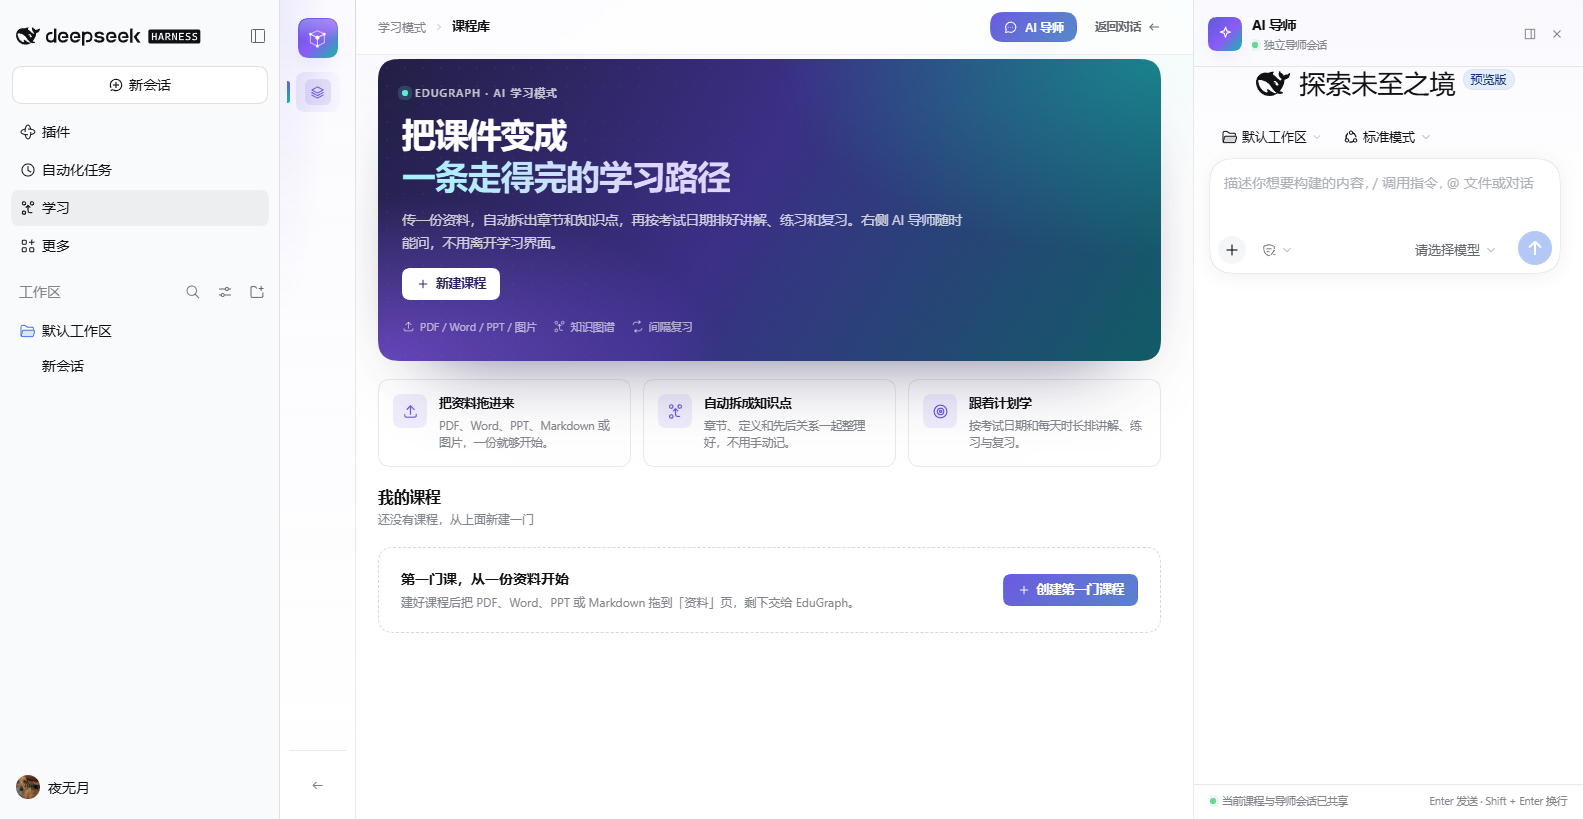
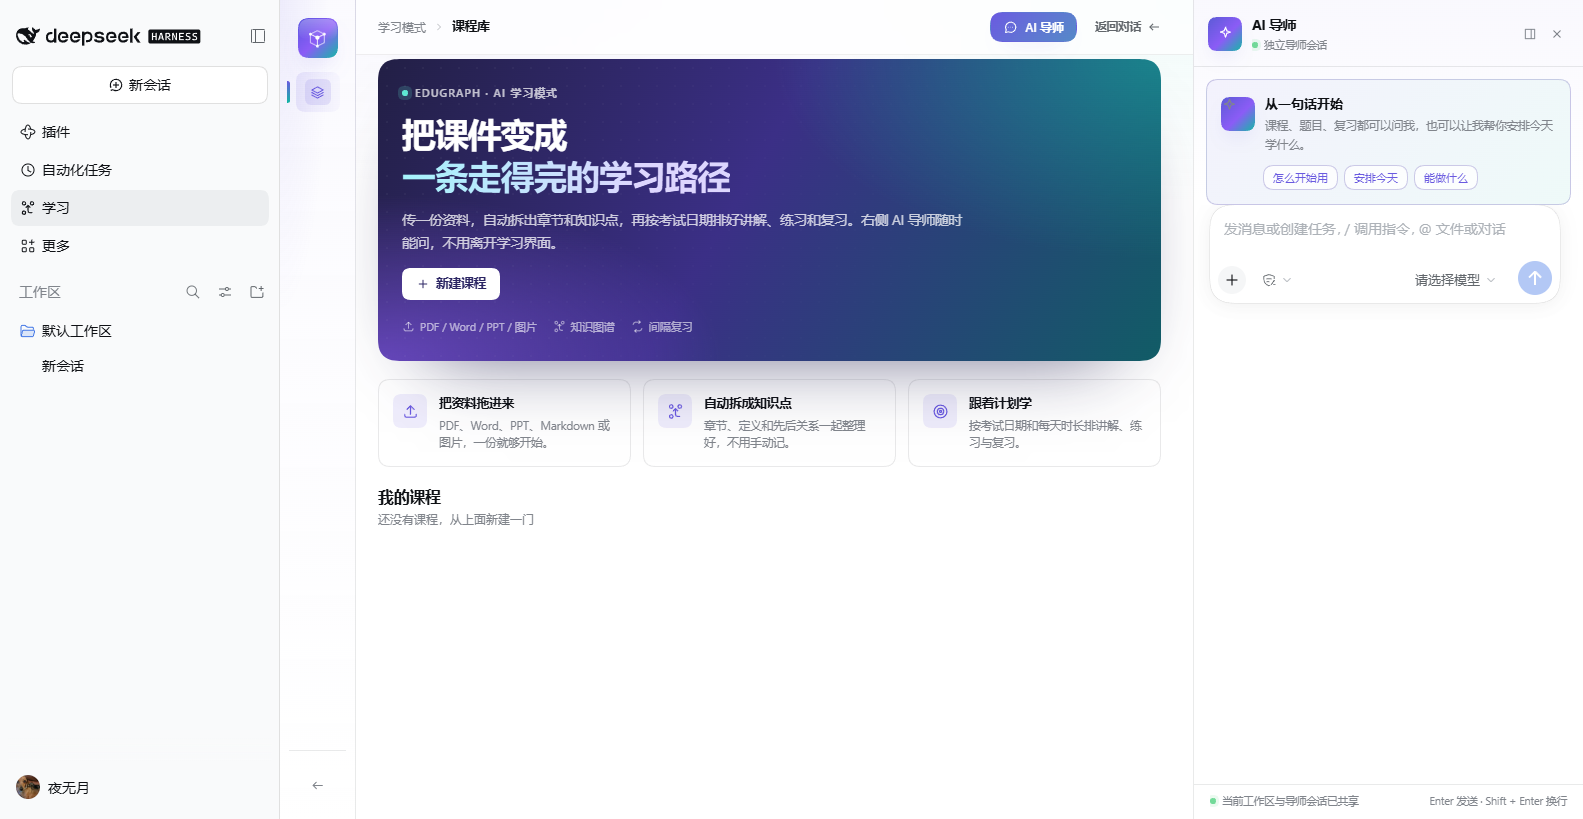
v1.5.3: 导师空态与课程库界面收口
- 导师空态改成学习欢迎卡 + 三个快捷提问；空会话用 active 原生 composer，不再显示 DSH 的探索未至之境首屏

- 快捷提问直接发到当前导师会话；会话活跃后欢迎卡自动隐藏

- 课程库空态移除重复的创建第一门课程大卡片，只保留 hero 的新建课程；更新截图/文档

diff --git a/lib/client.js b/lib/client.js
@@ -1073,6 +1073,25 @@ body[data-ds-dark-theme] .eg-app {
 .eg-chat-fab:hover { background: var(--eg-brand-deep); }
 .eg-chat-native { flex: 1; min-height: 0; display: flex; overflow: hidden; }
 .eg-chat-native > * { flex: 1; min-width: 0; min-height: 0; }
+.eg-chat-welcome {
+  flex: 0 0 auto; display: flex; flex-direction: column; gap: 11px;
+  margin: 12px 12px 0; padding: 14px;
+  border: 1px solid color-mix(in srgb, var(--eg-brand) 18%, var(--eg-border));
+  border-radius: 14px;
+  background: linear-gradient(135deg, color-mix(in srgb, var(--eg-brand) 8%, var(--eg-layer)) 0%, color-mix(in srgb, var(--eg-accent) 7%, var(--eg-layer)) 100%);
+}
+.eg-chat-welcome-head { display: flex; align-items: flex-start; gap: 10px; }
+.eg-chat-welcome-head .eg-chat-avatar { flex: 0 0 auto; }
+.eg-chat-welcome-head b { display: block; font-size: 13px; color: var(--eg-text); }
+.eg-chat-welcome-head span { display: block; margin-top: 3px; font-size: 11.5px; line-height: 1.6; color: var(--eg-text-3); }
+.eg-chat-chips { display: flex; flex-wrap: wrap; gap: 6px; padding-left: 42px; }
+.eg-chat-chips button {
+  border: 1px solid color-mix(in srgb, var(--eg-brand) 22%, var(--eg-border));
+  background: color-mix(in srgb, var(--eg-layer) 82%, transparent);
+  color: var(--eg-brand); border-radius: 999px; padding: 4px 9px;
+  font-size: 11px; cursor: pointer; transition: background 0.15s ease, transform 0.15s ease;
+}
+.eg-chat-chips button:hover { background: color-mix(in srgb, var(--eg-brand) 12%, var(--eg-layer)); transform: translateY(-1px); }
 .eg-chat-preparing {
   flex: 1; min-height: 0; display: flex; flex-direction: column; align-items: center; justify-content: center;
   gap: 10px; padding: 28px 24px; text-align: center;
@@ -1911,16 +1930,7 @@ function LibraryView({ catalog, onOpen, onChanged, notify }) {
         ]
       },
       course.id
-    )) }) : /* @__PURE__ */ (0, import_jsx_runtime2.jsxs)("div", { className: "eg-start-card", children: [
-      /* @__PURE__ */ (0, import_jsx_runtime2.jsxs)("div", { className: "eg-start-card-copy", children: [
-        /* @__PURE__ */ (0, import_jsx_runtime2.jsx)("b", { children: "\u7B2C\u4E00\u95E8\u8BFE\uFF0C\u4ECE\u4E00\u4EFD\u8D44\u6599\u5F00\u59CB" }),
-        /* @__PURE__ */ (0, import_jsx_runtime2.jsx)("span", { children: "\u5EFA\u597D\u8BFE\u7A0B\u540E\u628A PDF\u3001Word\u3001PPT \u6216 Markdown \u62D6\u5230\u300C\u8D44\u6599\u300D\u9875\uFF0C\u5269\u4E0B\u4EA4\u7ED9 EduGraph\u3002" })
-      ] }),
-      /* @__PURE__ */ (0, import_jsx_runtime2.jsxs)(Button, { variant: "primary", onClick: () => setCreating(true), children: [
-        /* @__PURE__ */ (0, import_jsx_runtime2.jsx)(Icon, { name: "plus", size: 14 }),
-        "\u521B\u5EFA\u7B2C\u4E00\u95E8\u8BFE\u7A0B"
-      ] })
-    ] }),
+    )) }) : null,
     creating ? /* @__PURE__ */ (0, import_jsx_runtime2.jsxs)(
       Modal,
       {
@@ -4313,7 +4323,7 @@ function installChatEmbed(ctx) {
 
 // src/client/views/Chat.tsx
 var import_jsx_runtime7 = require("react/jsx-runtime");
-function ChatDock({ open, sessionId, sessionBlank, tutorReady, tutorError, onRetryTutor, renderFactorySlot, askRequest, onAskDone, onNotify, onClose, onExpand }) {
+function ChatDock({ open, sessionId, sessionBlank, tutorReady, tutorError, onRetryTutor, renderFactorySlot, onQuickAsk, askRequest, onAskDone, onNotify, onClose, onExpand }) {
   const [mounted, setMounted] = (0, import_react7.useState)(open);
   const [nonce, setNonce] = (0, import_react7.useState)(0);
   const [status, setStatus] = (0, import_react7.useState)("loading");
@@ -4324,13 +4334,12 @@ function ChatDock({ open, sessionId, sessionBlank, tutorReady, tutorError, onRet
   const nativeContent = (0, import_react7.useMemo)(() => {
     if (typeof renderFactorySlot !== "function") return null;
     try {
-      const phase = sessionBlank ? "hero" : "active";
-      return renderFactorySlot("conversation.content", { variant: "main", phase, hero: Boolean(sessionBlank) });
+      return renderFactorySlot("conversation.content", { variant: "main", phase: "active", hero: false });
     } catch (error) {
       console.warn("[edugraph] native conversation slot unavailable", error);
       return null;
     }
-  }, [renderFactorySlot, sessionBlank]);
+  }, [renderFactorySlot]);
   const pending = tutorReady === false;
   const connected = !pending && (Boolean(nativeContent) || status === "ready");
   (0, import_react7.useEffect)(() => {
@@ -4423,7 +4432,23 @@ function ChatDock({ open, sessionId, sessionBlank, tutorReady, tutorError, onRet
       /* @__PURE__ */ (0, import_jsx_runtime7.jsx)("b", { children: tutorError ? "\u72EC\u7ACB\u5BFC\u5E08\u4F1A\u8BDD\u6CA1\u6709\u6253\u5F00" : "\u6B63\u5728\u51C6\u5907\u72EC\u7ACB\u5BFC\u5E08\u4F1A\u8BDD" }),
       /* @__PURE__ */ (0, import_jsx_runtime7.jsx)("p", { children: tutorError ? "\u8FD9\u6B21\u6CA1\u6709\u521B\u5EFA\u6210\u529F\uFF0C\u70B9\u91CD\u8BD5\u518D\u5F00\u4E00\u6B21\uFF1B\u5B66\u4E60\u8FDB\u5EA6\u4E0D\u53D7\u5F71\u54CD\u3002" : "\u4F1A\u65B0\u5EFA\u4E00\u6761\u72EC\u7ACB DSH \u4F1A\u8BDD\uFF1A\u6A21\u578B\u3001\u5DE5\u5177\u3001\u5BA1\u6279\u548C\u4E3B\u754C\u9762\u4E00\u6837\uFF0C\u4F46\u4E0D\u4F1A\u5360\u7528\u5F53\u524D\u4E3B\u5BF9\u8BDD\u3002" }),
       tutorError ? /* @__PURE__ */ (0, import_jsx_runtime7.jsx)("button", { type: "button", className: "eg-btn sm", onClick: onRetryTutor, children: "\u91CD\u8BD5" }) : null
-    ] }) : nativeContent ? /* @__PURE__ */ (0, import_jsx_runtime7.jsx)("div", { className: "eg-chat-native", children: nativeContent }) : /* @__PURE__ */ (0, import_jsx_runtime7.jsx)("div", { className: "eg-chat-body", children: /* @__PURE__ */ (0, import_jsx_runtime7.jsxs)("div", { className: "eg-chat-frame-wrap", children: [
+    ] }) : nativeContent ? /* @__PURE__ */ (0, import_jsx_runtime7.jsxs)(import_jsx_runtime7.Fragment, { children: [
+      sessionBlank ? /* @__PURE__ */ (0, import_jsx_runtime7.jsxs)("div", { className: "eg-chat-welcome", children: [
+        /* @__PURE__ */ (0, import_jsx_runtime7.jsxs)("div", { className: "eg-chat-welcome-head", children: [
+          /* @__PURE__ */ (0, import_jsx_runtime7.jsx)("span", { className: "eg-chat-avatar", children: /* @__PURE__ */ (0, import_jsx_runtime7.jsx)(Icon, { name: "spark", size: 17 }) }),
+          /* @__PURE__ */ (0, import_jsx_runtime7.jsxs)("div", { children: [
+            /* @__PURE__ */ (0, import_jsx_runtime7.jsx)("b", { children: "\u4ECE\u4E00\u53E5\u8BDD\u5F00\u59CB" }),
+            /* @__PURE__ */ (0, import_jsx_runtime7.jsx)("span", { children: "\u8BFE\u7A0B\u3001\u9898\u76EE\u3001\u590D\u4E60\u90FD\u53EF\u4EE5\u95EE\u6211\uFF0C\u4E5F\u53EF\u4EE5\u8BA9\u6211\u5E2E\u4F60\u5B89\u6392\u4ECA\u5929\u5B66\u4EC0\u4E48\u3002" })
+          ] })
+        ] }),
+        /* @__PURE__ */ (0, import_jsx_runtime7.jsxs)("div", { className: "eg-chat-chips", children: [
+          /* @__PURE__ */ (0, import_jsx_runtime7.jsx)("button", { type: "button", onClick: () => onQuickAsk?.("\u600E\u4E48\u5F00\u59CB\u7528 EduGraph\uFF1F"), children: "\u600E\u4E48\u5F00\u59CB\u7528" }),
+          /* @__PURE__ */ (0, import_jsx_runtime7.jsx)("button", { type: "button", onClick: () => onQuickAsk?.("\u5E2E\u6211\u5B89\u6392\u4ECA\u5929\u7684\u5B66\u4E60"), children: "\u5B89\u6392\u4ECA\u5929" }),
+          /* @__PURE__ */ (0, import_jsx_runtime7.jsx)("button", { type: "button", onClick: () => onQuickAsk?.("\u4E0A\u4F20\u8D44\u6599\u540E\u80FD\u505A\u4EC0\u4E48\uFF1F"), children: "\u80FD\u505A\u4EC0\u4E48" })
+        ] })
+      ] }) : null,
+      /* @__PURE__ */ (0, import_jsx_runtime7.jsx)("div", { className: "eg-chat-native", children: nativeContent })
+    ] }) : /* @__PURE__ */ (0, import_jsx_runtime7.jsx)("div", { className: "eg-chat-body", children: /* @__PURE__ */ (0, import_jsx_runtime7.jsxs)("div", { className: "eg-chat-frame-wrap", children: [
       /* @__PURE__ */ (0, import_jsx_runtime7.jsx)(
         "iframe",
         {
@@ -5086,6 +5111,14 @@ function LearningPanel(props) {
     }
     return deliver(null);
   }, [chatEnabled, courseId, ensureProject, ensureTutor, notify, project?.workspaceId, sendChat, setChat]);
+  const quickAsk = (0, import_react9.useCallback)((text) => {
+    setChat(true);
+    if (typeof sendChat === "function" && sendChat(text, chatSession ?? void 0)) {
+      notify("\u5DF2\u628A\u95EE\u9898\u53D1\u7ED9 AI \u5BFC\u5E08");
+    } else {
+      notify("\u5BFC\u5E08\u8FD8\u6CA1\u51C6\u5907\u597D\uFF0C\u7A0D\u540E\u518D\u8BD5");
+    }
+  }, [chatSession, notify, sendChat, setChat]);
   const clearAsk = (0, import_react9.useCallback)((id) => {
     setAskRequest((current) => current && current.id === id ? null : current);
   }, []);
@@ -5473,6 +5506,7 @@ function LearningPanel(props) {
           tutorError: projectError ?? tutorError,
           onRetryTutor: retryTutor,
           renderFactorySlot: props.renderFactorySlot,
+          onQuickAsk: quickAsk,
           askRequest,
           onAskDone: clearAsk,
           onNotify: notify,

diff --git a/src/client/views/Chat.tsx b/src/client/views/Chat.tsx
@@ -7,7 +7,7 @@ import type { TutorAsk } from '../tutor'
 
 type ChatStatus = 'loading' | 'ready' | 'slow' | 'error'
 
-export function ChatDock({ open, sessionId, sessionBlank, tutorReady, tutorError, onRetryTutor, renderFactorySlot, askRequest, onAskDone, onNotify, onClose, onExpand }: {
+export function ChatDock({ open, sessionId, sessionBlank, tutorReady, tutorError, onRetryTutor, renderFactorySlot, onQuickAsk, askRequest, onAskDone, onNotify, onClose, onExpand }: {
   open: boolean
   sessionId: string | null
   sessionBlank?: boolean
@@ -15,6 +15,7 @@ export function ChatDock({ open, sessionId, sessionBlank, tutorReady, tutorError
   tutorError?: string | null
   onRetryTutor?: () => void
   renderFactorySlot?: any
+  onQuickAsk?: (text: string) => void
   askRequest: TutorAsk | null
   onAskDone: (id: number) => void
   onNotify: (message: string) => void
@@ -34,13 +35,13 @@ export function ChatDock({ open, sessionId, sessionBlank, tutorReady, tutorError
     if (typeof renderFactorySlot !== 'function') return null
     try {
       // 不要传 sessionId：factory slot 已由原生会话 owner 提供，重复会触发 SlotAssemblyError。
-      const phase = sessionBlank ? 'hero' : 'active'
-      return renderFactorySlot('conversation.content', { variant: 'main', phase, hero: Boolean(sessionBlank) })
+      // 空会话也走 active，把 DSH 通用首屏让给下面的学习欢迎卡。
+      return renderFactorySlot('conversation.content', { variant: 'main', phase: 'active', hero: false })
     } catch (error) {
       console.warn('[edugraph] native conversation slot unavailable', error)
       return null
     }
-  }, [renderFactorySlot, sessionBlank])
+  }, [renderFactorySlot])
   const pending = tutorReady === false
   const connected = !pending && (Boolean(nativeContent) || status === 'ready')
 
@@ -145,7 +146,25 @@ export function ChatDock({ open, sessionId, sessionBlank, tutorReady, tutorError
           {tutorError ? <button type="button" className="eg-btn sm" onClick={onRetryTutor}>重试</button> : null}
         </div>
       ) : nativeContent ? (
-        <div className="eg-chat-native">{nativeContent}</div>
+        <>
+          {sessionBlank ? (
+            <div className="eg-chat-welcome">
+              <div className="eg-chat-welcome-head">
+                <span className="eg-chat-avatar"><Icon name="spark" size={17} /></span>
+                <div>
+                  <b>从一句话开始</b>
+                  <span>课程、题目、复习都可以问我，也可以让我帮你安排今天学什么。</span>
+                </div>
+              </div>
+              <div className="eg-chat-chips">
+                <button type="button" onClick={() => onQuickAsk?.('怎么开始用 EduGraph？')}>怎么开始用</button>
+                <button type="button" onClick={() => onQuickAsk?.('帮我安排今天的学习')}>安排今天</button>
+                <button type="button" onClick={() => onQuickAsk?.('上传资料后能做什么？')}>能做什么</button>
+              </div>
+            </div>
+          ) : null}
+          <div className="eg-chat-native">{nativeContent}</div>
+        </>
       ) : (
       <div className="eg-chat-body">
         <div className="eg-chat-frame-wrap">

diff --git a/src/client/styles.css b/src/client/styles.css
@@ -1034,6 +1034,25 @@ body[data-ds-dark-theme] .eg-app {
 .eg-chat-fab:hover { background: var(--eg-brand-deep); }
 .eg-chat-native { flex: 1; min-height: 0; display: flex; overflow: hidden; }
 .eg-chat-native > * { flex: 1; min-width: 0; min-height: 0; }
+.eg-chat-welcome {
+  flex: 0 0 auto; display: flex; flex-direction: column; gap: 11px;
+  margin: 12px 12px 0; padding: 14px;
+  border: 1px solid color-mix(in srgb, var(--eg-brand) 18%, var(--eg-border));
+  border-radius: 14px;
+  background: linear-gradient(135deg, color-mix(in srgb, var(--eg-brand) 8%, var(--eg-layer)) 0%, color-mix(in srgb, var(--eg-accent) 7%, var(--eg-layer)) 100%);
+}
+.eg-chat-welcome-head { display: flex; align-items: flex-start; gap: 10px; }
+.eg-chat-welcome-head .eg-chat-avatar { flex: 0 0 auto; }
+.eg-chat-welcome-head b { display: block; font-size: 13px; color: var(--eg-text); }
+.eg-chat-welcome-head span { display: block; margin-top: 3px; font-size: 11.5px; line-height: 1.6; color: var(--eg-text-3); }
+.eg-chat-chips { display: flex; flex-wrap: wrap; gap: 6px; padding-left: 42px; }
+.eg-chat-chips button {
+  border: 1px solid color-mix(in srgb, var(--eg-brand) 22%, var(--eg-border));
+  background: color-mix(in srgb, var(--eg-layer) 82%, transparent);
+  color: var(--eg-brand); border-radius: 999px; padding: 4px 9px;
+  font-size: 11px; cursor: pointer; transition: background 0.15s ease, transform 0.15s ease;
+}
+.eg-chat-chips button:hover { background: color-mix(in srgb, var(--eg-brand) 12%, var(--eg-layer)); transform: translateY(-1px); }
 .eg-chat-preparing {
   flex: 1; min-height: 0; display: flex; flex-direction: column; align-items: center; justify-content: center;
   gap: 10px; padding: 28px 24px; text-align: center;

diff --git a/src/client/index.tsx b/src/client/index.tsx
@@ -171,6 +171,15 @@ export function LearningPanel(props: PanelProps & Record<string, any>) {
     return deliver(null)
   }, [chatEnabled, courseId, ensureProject, ensureTutor, notify, project?.workspaceId, sendChat, setChat])
 
+  const quickAsk = useCallback((text: string) => {
+    setChat(true)
+    if (typeof sendChat === 'function' && sendChat(text, chatSession ?? undefined)) {
+      notify('已把问题发给 AI 导师')
+    } else {
+      notify('导师还没准备好，稍后再试')
+    }
+  }, [chatSession, notify, sendChat, setChat])
+
   const clearAsk = useCallback((id: number) => {
     setAskRequest((current) => (current && current.id === id ? null : current))
   }, [])
@@ -584,6 +593,7 @@ export function LearningPanel(props: PanelProps & Record<string, any>) {
           tutorError={projectError ?? tutorError}
           onRetryTutor={retryTutor}
           renderFactorySlot={props.renderFactorySlot}
+          onQuickAsk={quickAsk}
           askRequest={askRequest}
           onAskDone={clearAsk}
           onNotify={notify}

diff --git a/src/client/views/Library.tsx b/src/client/views/Library.tsx
@@ -143,15 +143,7 @@ export function LibraryView({ catalog, onOpen, onChanged, notify }: {
             </div>
           ))}
         </div>
-      ) : (
-        <div className="eg-start-card">
-          <div className="eg-start-card-copy">
-            <b>第一门课，从一份资料开始</b>
-            <span>建好课程后把 PDF、Word、PPT 或 Markdown 拖到「资料」页，剩下交给 EduGraph。</span>
-          </div>
-          <Button variant="primary" onClick={() => setCreating(true)}><Icon name="plus" size={14} />创建第一门课程</Button>
-        </div>
-      )}
+      ) : null}
 
       {creating ? (
         <Modal

diff --git a/lib/index.js b/lib/index.js
@@ -81,7 +81,7 @@ export function apply(ctx, config = {}) {
 
   // HTTP 接口（前缀路由，内部再分派；面板与本地脚本共用）。
   const handler = createApiHandler({
-    service, store, config, version: '1.5.2', prefix: API_PREFIX, chatOrigin, chatFrameUrl,
+    service, store, config, version: '1.5.3', prefix: API_PREFIX, chatOrigin, chatFrameUrl,
   })
   ctx.effect(
     () => ctx.webServer.register({ kind: 'prefix', path: API_PREFIX, handler }),

diff --git a/docs/工程说明.md b/docs/工程说明.md
@@ -132,7 +132,7 @@ courses/<id>/meta.json     course / chapters / concepts / relations
   - 正文 `.eg-main-inner` 同样建立容器上下文，`.eg-split`、Hero、统计卡按内容宽度重排；
 - **课程库不是空态**：进入课程库仍保留当前课程上下文，左栏导航不消失；只有真的没有课程时才显示「从一门课开始」。
 
-## 8.5 课程项目 + 独立导师会话（v1.5.2）
+## 8.5 课程项目 + 独立导师会话（v1.5.3）
 
 - **课程项目**：宿主 `lib/project.js` 的 `ensureProject` 在 `<当前工作区>/EduGraph/EduGraph - <课程名>` 建目录，把课程 `meta.documents` 对应的原始文件收进插件 `documents/`（文件名用原始可读名），把项目 `materials/` 做成指向该目录的 junction（非 Windows 用目录 symlink），写 `project.json` 和 `README.md`；项目路径存进课程 meta 的 `project.path`。旧 v1.5 的项目复制件会并回插件目录后删除，再切链接；junction 不可用才退回复制。同名课程用课程 id 后缀避让；文件名做 Windows/POSIX 安全化；重名资料自动加序号。
 - **工作区注册**：客户端先调 `POST /courses/:id/project {basePath}`，再用 `workspaces.create({path: project.path})` 把项目文件夹注册成新的 DSH 工作区；如果工作区列表里已有同路径，直接复用。插件客户端 `inject` 必须包含 `workspaces` 和 `uiWorkspace`，否则 Cordis 会报“cannot get property without inject”。
@@ -140,12 +140,13 @@ courses/<id>/meta.json     course / chapters / concepts / relations
 - **导师会话**：`src/client/tutor-session.ts` 的 `ensureTutor(courseId, projectWorkspaceId)` 调用 `uiWorkspace.openWorkspace(projectWorkspaceId)` 在项目工作区创建/复用一个空白会话并设为 mainView，随后立刻 `layout.selectPanel('learning')` 留在学习面板；面板 owner 的原生 `conversation.content` 渲染的就是这条导师会话。会话 id 按课程存在 localStorage（v2 key，旧的默认工作区导师不迁移），进入学习前的主会话也存着，「返回对话」用 `openSession(previous)` 切回。
 - **项目入口**：课程顶部「项目」打开 `ProjectModal`：项目路径、资料清单、打开项目（`uiWorkspace.openWorkspace`）、打开导师会话（ensureTutor + `openSession`）、复制项目路径、重新同步。没有课程时不显示。
 - **课程库全局导师（v1.5.2）**：没有课程时右侧也渲染 ChatDock，用 base workspace（首次进入课程库时的当前工作区）和 `__library__` 会话键调用 `ensureTutor`；进入课程后切课程项目导师，返回课程库切回全局导师。全局导师同样独立于主对话，删除项目/删除课程不影响它。
+- **空态 UI（v1.5.3）**：ChatDock 的 `renderFactorySlot` 固定 `phase='active', hero=false`，空会话不再显示 DSH 的“探索未至之境”通用首屏；`sessionBlank` 时显示学习欢迎卡和三个快捷提问，点击通过 `sendChat` 发到当前导师会话，会话活跃后自动隐藏。课程库空态移除 `eg-start-card` 重复 CTA，只保留 hero 的「新建课程」。
 - **上下文提问**：讲解/错题/图谱/概览通过 `src/client/tutor.ts` 事件总线把 prompt 交给面板；面板先确保项目/导师，再调用 `ctx.sessions.scope(tutorId).get('conversation').send(text)` 发到导师会话，不经过主会话，也不 postMessage 过 iframe。
 - **能力保留**：导师会话的消息、composer、模型选择、工具、审批、队列都是 DSH 原生；模型选择是这条会话自己的，和主会话分开。插件工具默认读取界面里打开的课程。
-- **空态/加载/错误**：第一次建项目/导师会显示准备态，失败可重试；没有课程不渲染右侧，避免把主对话当成导师。
+- **空态/加载/错误**：第一次建项目/导师会显示准备态，失败可重试；课程库没有课程时用全局导师，不会把主对话当成导师。
 - **兜底 iframe**：没有 `renderFactorySlot` 的嵌入环境才用同源 iframe。宿主 `/chat-info` 给出 HTTP origin，`/chat-frame` 302 到带启动 token 的 HTTP 地址；父页面只接受该 iframe 的 source/已知 origin 的消息。
 - **桌面端限制**：`dsh-app://app/` 主页面直接嵌自定义协议 iframe 拿不到启动注入；跨 origin 的 token 重定向又会被第三方 cookie 拦截（实测 iframe 落在 `dsh web authentication required`）。因此主路径必须是原生 slot，不要回退到 iframe。
-- **已知取舍**：项目会出现在 DSH 工作区列表里；每门课一个，列表会变长。项目资料是副本，会占额外空间。导师会话短暂成为 mainView，返回时恢复；主对话内容不丢。
+- **已知取舍**：项目会出现在 DSH 工作区列表里；每门课一个，列表会变长。项目资料单份（materials 链接），不占额外空间；项目里改/删资料会作用到插件源文件。导师会话短暂成为 mainView，返回时恢复；主对话内容不丢。
 
 ## 8.6 外部 AI 课程包（v1.3）
 

diff --git a/README.md b/README.md
@@ -57,7 +57,7 @@
 
 `canvas` 是可选依赖：没装上时功能自动降级为提示「缺少 canvas 依赖」，其它功能不受影响。
 
-## 课程项目 + 独立导师会话（v1.5.2）
+## 课程项目 + 独立导师会话（v1.5.3）
 
 上传/打开一门课后，插件在当前工作区下建一个**每门课独立的 DSH 工作区**：`EduGraph - <课程名>`。资料只保留一份：插件的 documents 目录是源，项目的 `materials/` 是指向它的目录 junction（Windows 不需要管理员权限）；导师会话也建在这个项目工作区里。
 
@@ -67,6 +67,7 @@
 - 导师会话和主对话历史互不串线；主对话仍在会话列表里，不会被删除或覆盖；「返回对话」回进入学习前的主会话；
 - 讲解卡片、错题、图谱节点和概览的薄弱知识点旁边都有「问导师」，点一下会先确保课程项目和导师会话，再带着上下文发过去；
 - 每门课记住自己的项目工作区和导师会话，切课就切；课程库也有右侧 AI 导师——没有课程时用当前工作区的全局导师会话，不占主对话；选课程后切到该课程的导师；
+- 导师空态是学习欢迎卡 +「怎么开始用 / 安排今天 / 能做什么」快捷提问，不再显示 DSH 的通用“探索未至之境”首屏；课程库空态去掉重复的“创建第一门课程”大卡片，只保留 hero 的「新建课程」；
 - 第一次建项目/会短暂显示“正在准备独立导师会话”，失败可重试；桌面 `dsh-app://` 不走 iframe 鉴权。
 
 实现上，宿主 `lib/project.js` 负责在 `<当前工作区>/EduGraph/<课程>` 建目录、把资料收进插件 documents（文件名用原始可读名）、把项目 `materials/` 做成指向 documents 的 junction、写 manifest；旧复制目录会先并回插件目录再删除；junction 不可用才退回复制。客户端 `api.ensureProject` 之后用 `workspaces.create({path})` 注册成 DSH 工作区，再用 `uiWorkspace.openWorkspace(projectWorkspaceId)` 把导师会话建在项目里；课程 meta 记住项目路径，换工作区/重开不会重复建。
@@ -207,6 +208,7 @@ docs/          工程说明与截图
 
 ## 更新记录
 
+- **v1.5.3**：界面收口——导师空态换成学习欢迎卡和三个快捷提问，空会话用 active 原生 composer，不再显示 DSH 的“探索未至之境”首屏；课程库空态移除重复的“创建第一门课程”大卡片。
 - **v1.5.2**：课程库右侧也显示 AI 导师——没有课程时用当前工作区的全局导师会话，不再因为没课程把聊天入口藏掉；选课程后切到课程项目导师，返回课程库切回全局导师。
 - **v1.5.1**：课程项目资料改成单份存储——项目 `materials/` 是指向插件 documents 的目录 junction，旧 v1.5 复制件自动并回插件目录；资料文件名用原始可读名；删除项目不删原件，junction 不可用才退回复制。
 - **v1.5.0**：每门课在当前工作区生成独立 DSH 工作区项目（`EduGraph - <课程>`）；课程顶部「项目」可看路径/资料、打开项目、打开导师会话、复制路径；导师会话改在项目工作区里创建；学习逻辑不变。
